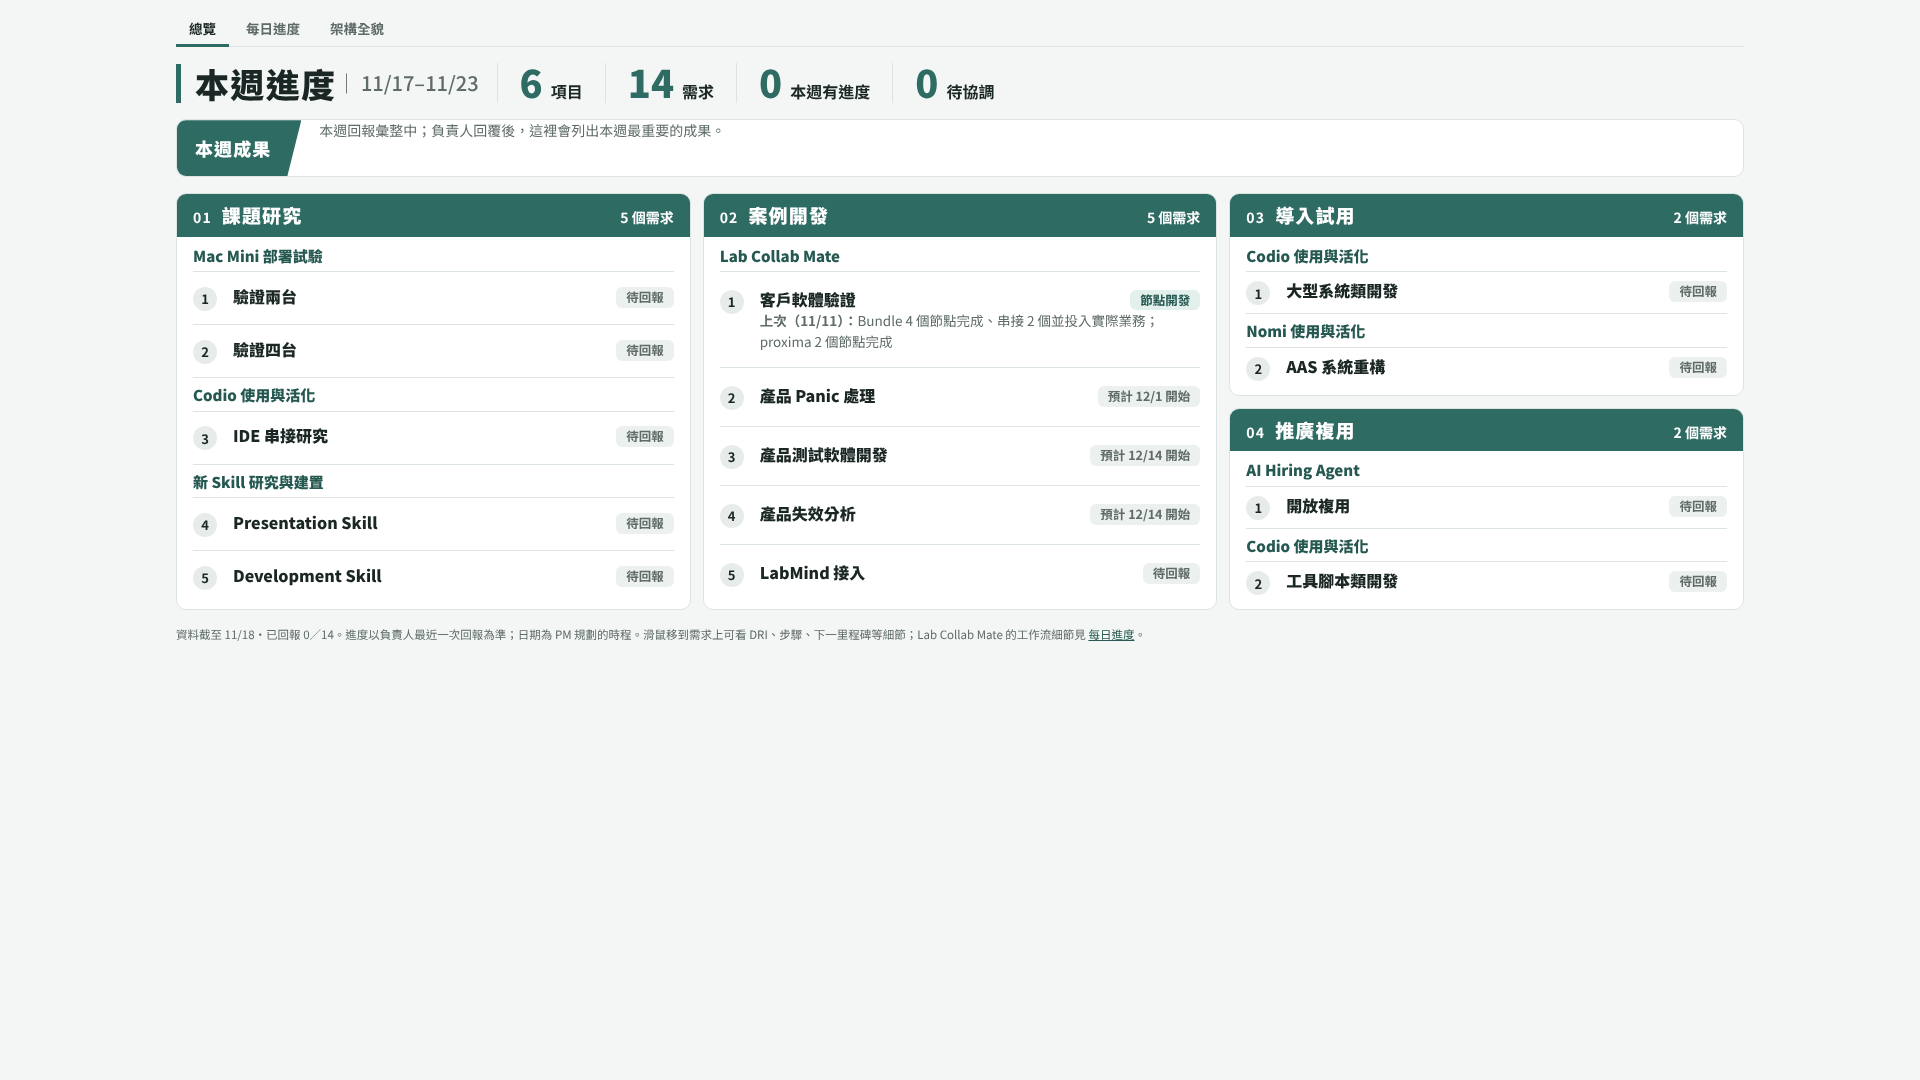
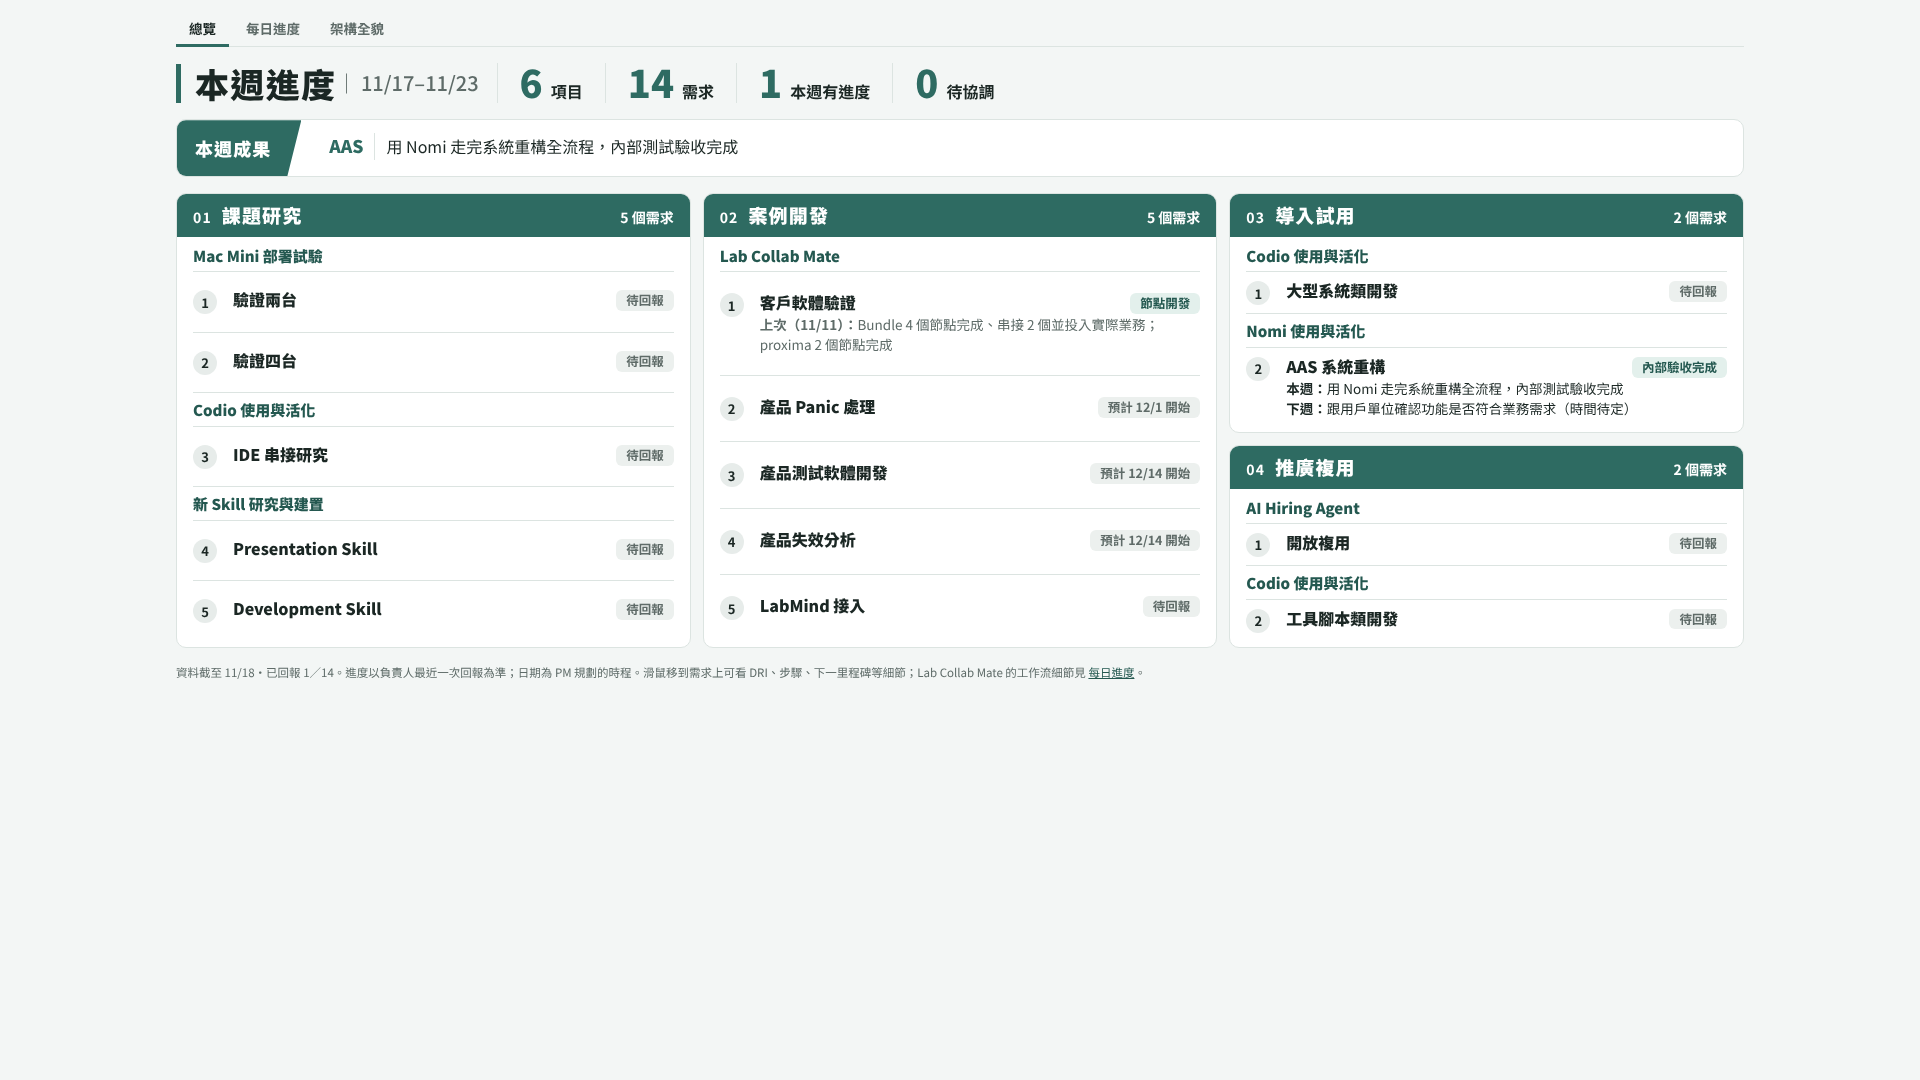
[2026-11-17_overview-redesign] AAS 對齊結論寫入摘要與總覽頁：架構演進、內部驗收完成、八步、DRI Tylee
Claude-Session: https://claude.ai/code/session_01Cd6Gft6mTX8zcMZinAmXya

diff --git a/work/2026-11-17_overview-redesign/inputs/SUMMARY_AAS-重構計畫簡報.md b/work/2026-11-17_overview-redesign/inputs/SUMMARY_AAS-重構計畫簡報.md
@@ -1,7 +1,7 @@
 # 摘要：AAS 系統重構計畫（Nomi 嘗試成果）
 
 > 來源：使用者 2026-11-18 提供的內部簡報（4 頁，pptx）。依專案規則，repo 只存文字摘要，不放原檔。
-> 狀態：**理解待與使用者對齊**（見本任務 STATUS.md 待確認事項）。
+> 狀態：已與使用者對齊（2026-11-18，以互動表單逐點確認）。
 
 ## 基本資訊
 
@@ -43,3 +43,11 @@
 
 - 下一步：先跟**用戶單位**確認功能是否符合他們的業務需求。
 - 再來：整個架構重構為 **Xylon 架構**，時間還沒定。
+
+## 與使用者對齊後的結論（2026-11-18）
+
+- **架構演進**：AAS 原本建在 **xTrack 系統管理架構**上 → 這一輪用 Nomi 重構後**沒有系統管理架構，是純 JSP** → 下一階段改為 **Xylon 系統管理架構**。
+- **驗收**：第 6 輪**已通過驗收**。驗收者 Tylee 是我方；「用戶單位」是實際使用系統的業務單位，兩者不同，用戶單位**尚未確認**。
+- **下一步**：跟用戶單位確認功能是否符合業務需求（**時間還沒排**）；之後做 Xylon 架構重構（**時間未定**，**用不用 Nomi 也還沒決定**）。
+- **總覽頁呈現**：維持一個需求「Nomi 使用與活化／AAS 系統重構」，放在 03 導入試用；DRI＝Tylee；步驟八步＝簡報 6 節點（系統分析、需求梳理、原型確認、技術規劃、AI 開發測試、內部試用驗收）＋用戶單位確認＋Xylon 架構重構。
+- **本週成果用詞**：「AAS｜用 Nomi 走完系統重構全流程，內部測試驗收完成」（強調是內部驗收，避免副總誤以為用戶單位已確認）。

diff --git a/work/2026-11-17_overview-redesign/outputs/data-template.md b/work/2026-11-17_overview-redesign/outputs/data-template.md
@@ -119,7 +119,7 @@ A. 驗證兩台　B. 驗證四台
 | Codio 使用與活化 | 工具腳本類開發 | 推廣型（無數字） | 不問；共 3 題 |
 | | 大型系統類開發 | 推廣型（無數字） | 不問；共 3 題；與 Development Skill 共用 InvestGo 驗證 |
 | | IDE 串接研究 | 研究型 | 目前結論（從 IDE 用 Codio 與直接用的差異） |
-| Nomi 使用與活化 | AAS 系統重構 | 交付型 | 做到哪一步（步驟待定） |
+| Nomi 使用與活化 | AAS 系統重構 | 交付型 | 做到哪一步：系統分析／需求梳理／原型確認／技術規劃／AI 開發測試／內部試用驗收／用戶單位確認／Xylon 架構重構（DRI：Tylee） |
 | 新 Skill 研究與建置 | Presentation Skill | 交付型 | 做到哪一步：現況調研／技能設計／建置／實測驗證／推廣接入；在「建置」時，3 個子階段（目標／對象／架構／內容梳理、風格與排版、品管與檢查驗證）完成哪幾個 |
 | | Development Skill | 交付型 | 做到哪一步：現況調研／技能設計／建置／實測驗證（InvestGo）／推廣接入；在「建置」時，7 個子階段（需求梳理、SRS、原型設計、開發設計文檔、程式碼生成校正、上線運維、測試用例生成）完成哪幾個；與大型系統類開發共用 InvestGo 驗證 |
 
